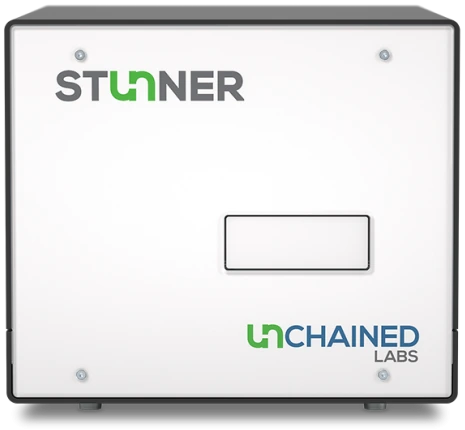
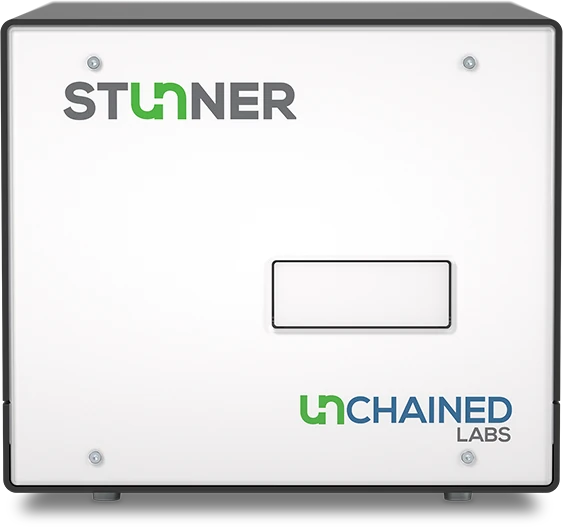
Sharper hero product photos
RainSure RS32, Unchained Labs Stunner and Welch Sail1000 replaced with
higher-resolution cut-outs from the manufacturers' sites.

Changed region(s): [[0.0, 0.0, 1.0, 0.9674], [0.4817, 0.4837, 0.8129, 0.6651], [0.1505, 0.8465, 0.1806, 0.8767]]

diff --git a/index.html b/index.html
@@ -89,7 +89,7 @@
       <span class="ring ring-1"></span><span class="ring ring-2"></span><span class="ring ring-3"></span>
 
       <div class="stage stage-dpcr" data-cat="molecular">
-        <img src="images/products/dpcr.webp" alt="RainSure digital PCR system" width="333" height="302">
+        <img src="images/products/dpcr.webp" alt="RainSure digital PCR system" width="758" height="1000">
         <span class="plinth"></span>
       </div>
       <div class="stage stage-fplc" data-cat="bioprocessing">
@@ -97,7 +97,7 @@
         <span class="plinth"></span>
       </div>
       <div class="stage stage-lc" data-cat="chromatography">
-        <img src="images/products/lc.webp" alt="Welch preparative chromatography system" width="644" height="900">
+        <img src="images/products/lc.webp" alt="Welch Sail1000 preparative HPLC system" width="529" height="696">
         <span class="plinth"></span>
       </div>
       <div class="stage stage-flowcam" data-cat="particle">
@@ -105,7 +105,7 @@
         <span class="plinth"></span>
       </div>
       <div class="stage stage-life" data-cat="life">
-        <img src="images/products/stunner.webp" alt="Unchained Labs Stunner" width="465" height="430">
+        <img src="images/products/stunner.webp" alt="Unchained Labs Stunner" width="563" height="527">
         <span class="plinth"></span>
       </div>
 
@@ -373,7 +373,7 @@
         <span class="arrow-btn sm"><svg><use href="#ic-arrow"/></svg></span>
       </a>
       <a href="#contact" class="prod-card">
-        <span class="prod-img"><img src="images/products/dpcr.webp" alt="" width="333" height="302" loading="lazy"></span>
+        <span class="prod-img"><img src="images/products/dpcr.webp" alt="" width="758" height="1000" loading="lazy"></span>
         <span class="prod-body"><strong>Digital PCR System</strong><span>Molecular Diagnostics</span><small>RainSure</small></span>
         <span class="arrow-btn sm"><svg><use href="#ic-arrow"/></svg></span>
       </a>
@@ -383,7 +383,7 @@
         <span class="arrow-btn sm"><svg><use href="#ic-arrow"/></svg></span>
       </a>
       <a href="#contact" class="prod-card">
-        <span class="prod-img"><img src="images/products/stunner.webp" alt="" width="465" height="430" loading="lazy"></span>
+        <span class="prod-img"><img src="images/products/stunner.webp" alt="" width="563" height="527" loading="lazy"></span>
         <span class="prod-body"><strong>Stunner</strong><span>Protein Quantification &amp; Sizing</span><small>Unchained Labs</small></span>
         <span class="arrow-btn sm"><svg><use href="#ic-arrow"/></svg></span>
       </a>

diff --git a/home-2.html b/home-2.html
@@ -77,7 +77,7 @@
       <span class="ring ring-1"></span><span class="ring ring-2"></span><span class="ring ring-3"></span>
 
       <div class="stage stage-dpcr" data-cat="molecular">
-        <img src="images/products/dpcr.webp" alt="RainSure digital PCR system" width="333" height="302">
+        <img src="images/products/dpcr.webp" alt="RainSure digital PCR system" width="758" height="1000">
         <span class="plinth"></span>
       </div>
       <div class="stage stage-fplc" data-cat="bioprocessing">
@@ -85,7 +85,7 @@
         <span class="plinth"></span>
       </div>
       <div class="stage stage-lc" data-cat="chromatography">
-        <img src="images/products/lc.webp" alt="Welch preparative chromatography system" width="644" height="900">
+        <img src="images/products/lc.webp" alt="Welch Sail1000 preparative HPLC system" width="529" height="696">
         <span class="plinth"></span>
       </div>
       <div class="stage stage-flowcam" data-cat="particle">
@@ -93,7 +93,7 @@
         <span class="plinth"></span>
       </div>
       <div class="stage stage-life" data-cat="life">
-        <img src="images/products/stunner.webp" alt="Unchained Labs Stunner" width="465" height="430">
+        <img src="images/products/stunner.webp" alt="Unchained Labs Stunner" width="563" height="527">
         <span class="plinth"></span>
       </div>
 

diff --git a/styles.css b/styles.css
@@ -584,3 +584,10 @@ button.arrow-btn:hover { background: var(--navy); color: #fff; border-color: var
   .contact-form label { grid-column: 1 / -1; }
 }
 @media (prefers-reduced-motion: reduce) { .marquee-track { animation: none; } }
+
+
+/* hero: sharper product photos (new aspect ratios) */
+.stage-dpcr { --img: 54%; }
+.stage-lc { --img: 62%; }
+.stage-life { --img: 66%; }
+.stage img { image-rendering: auto; }
